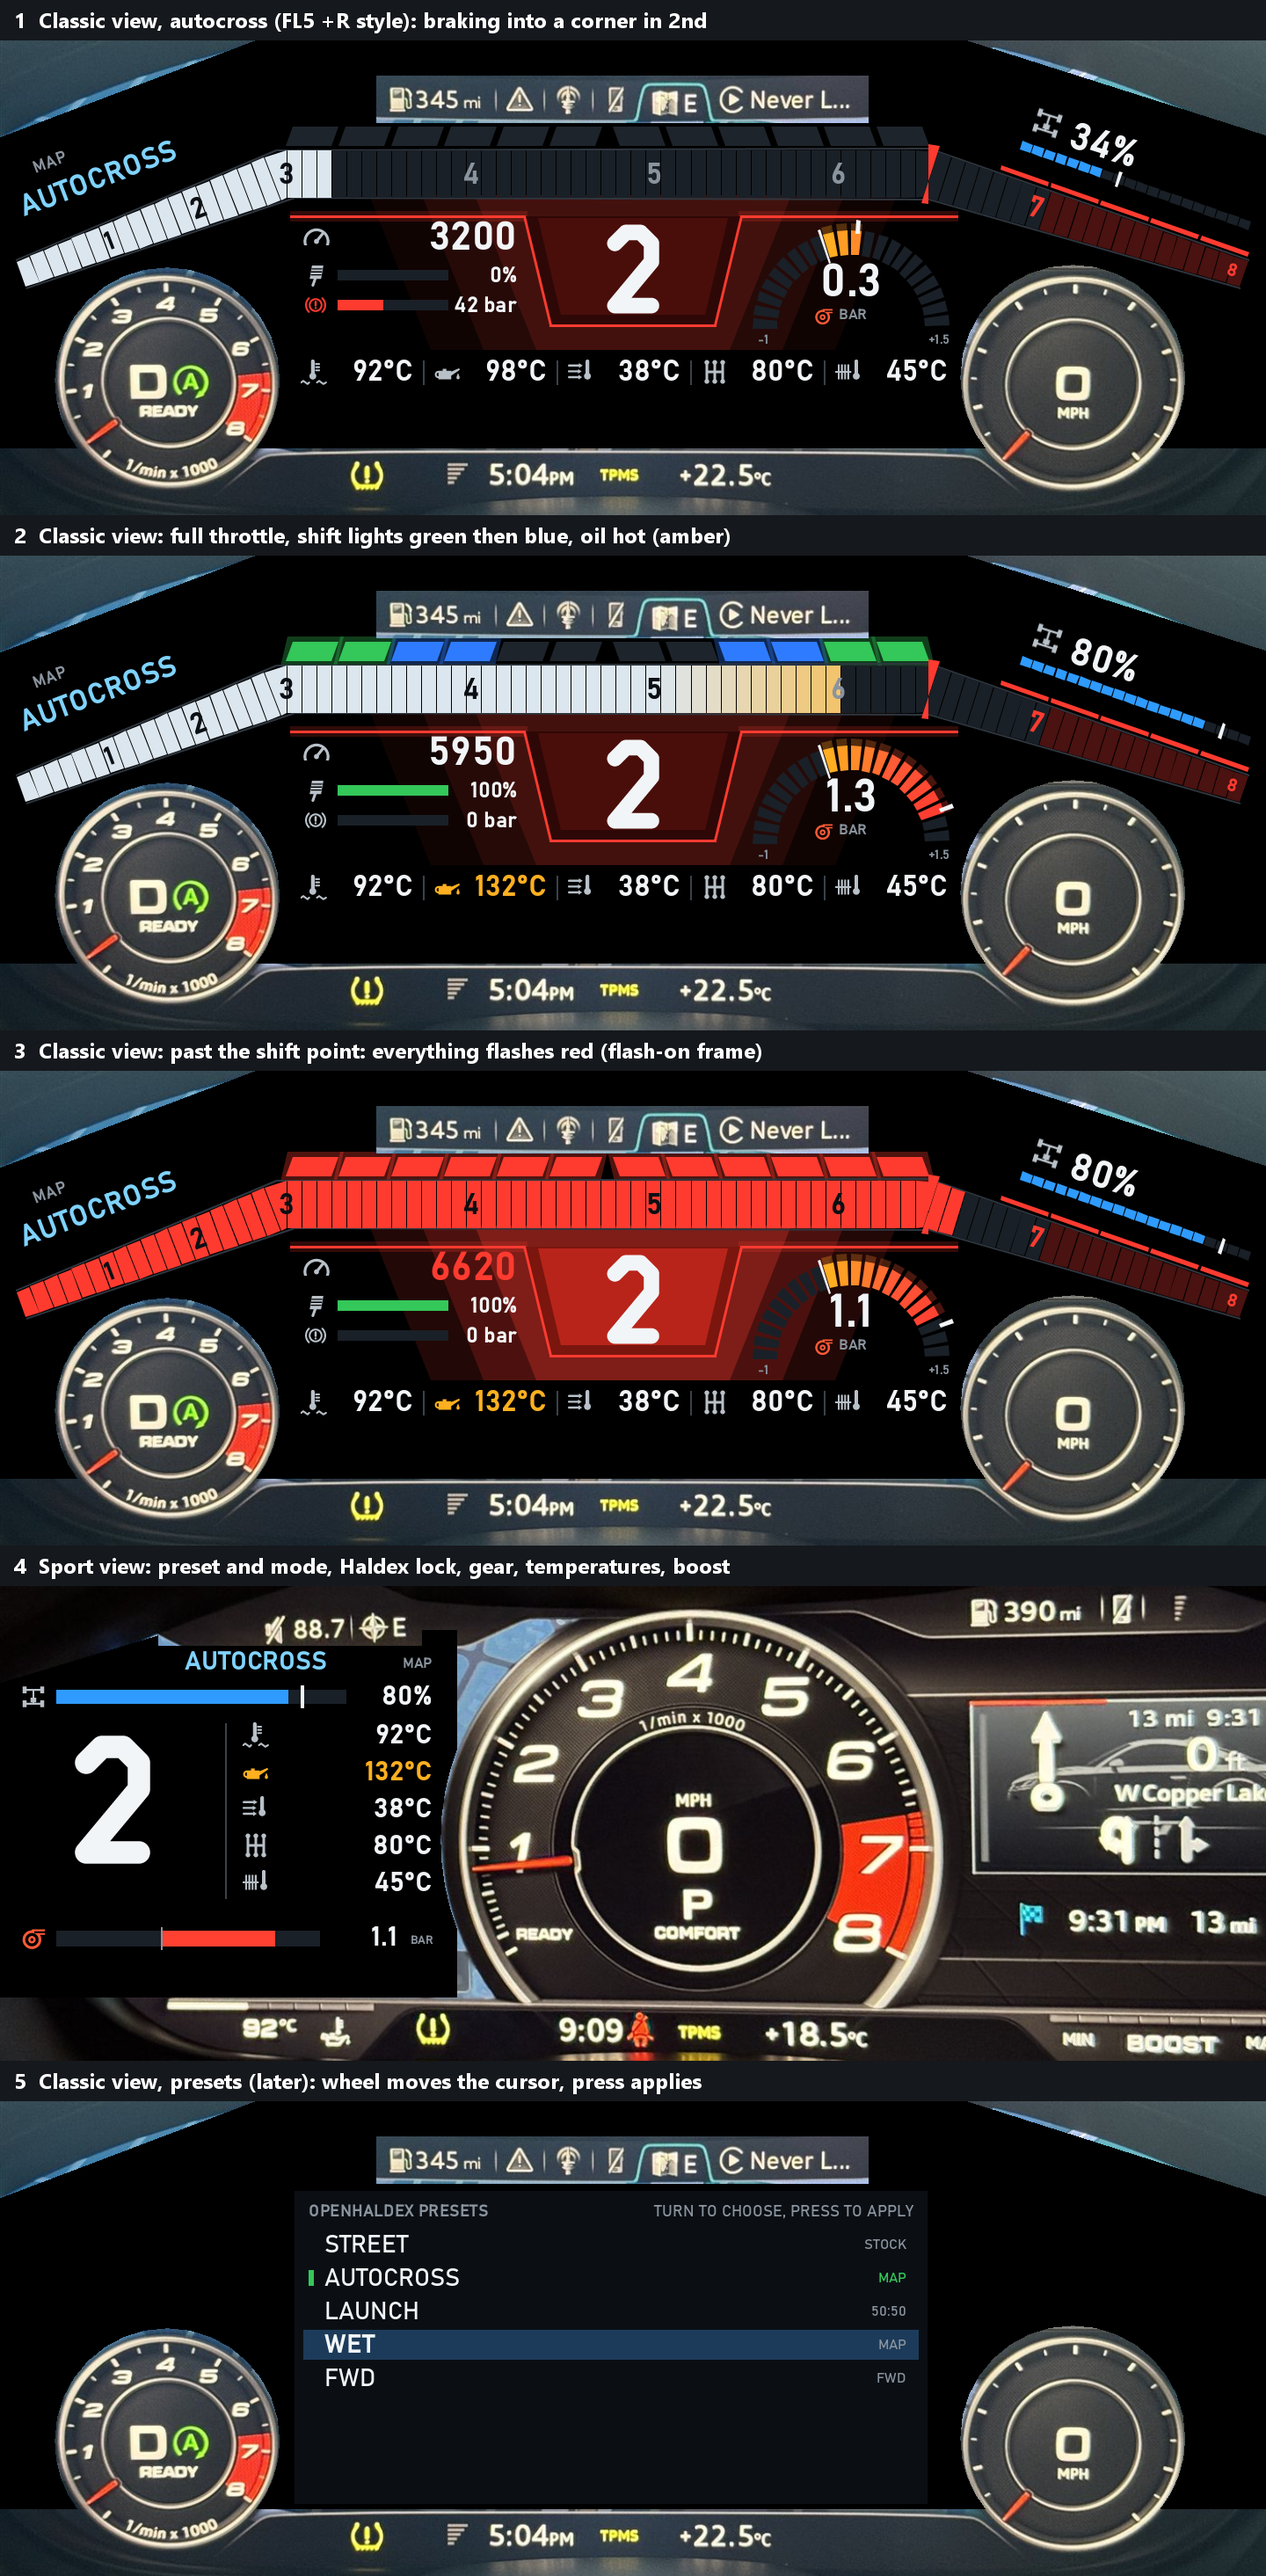
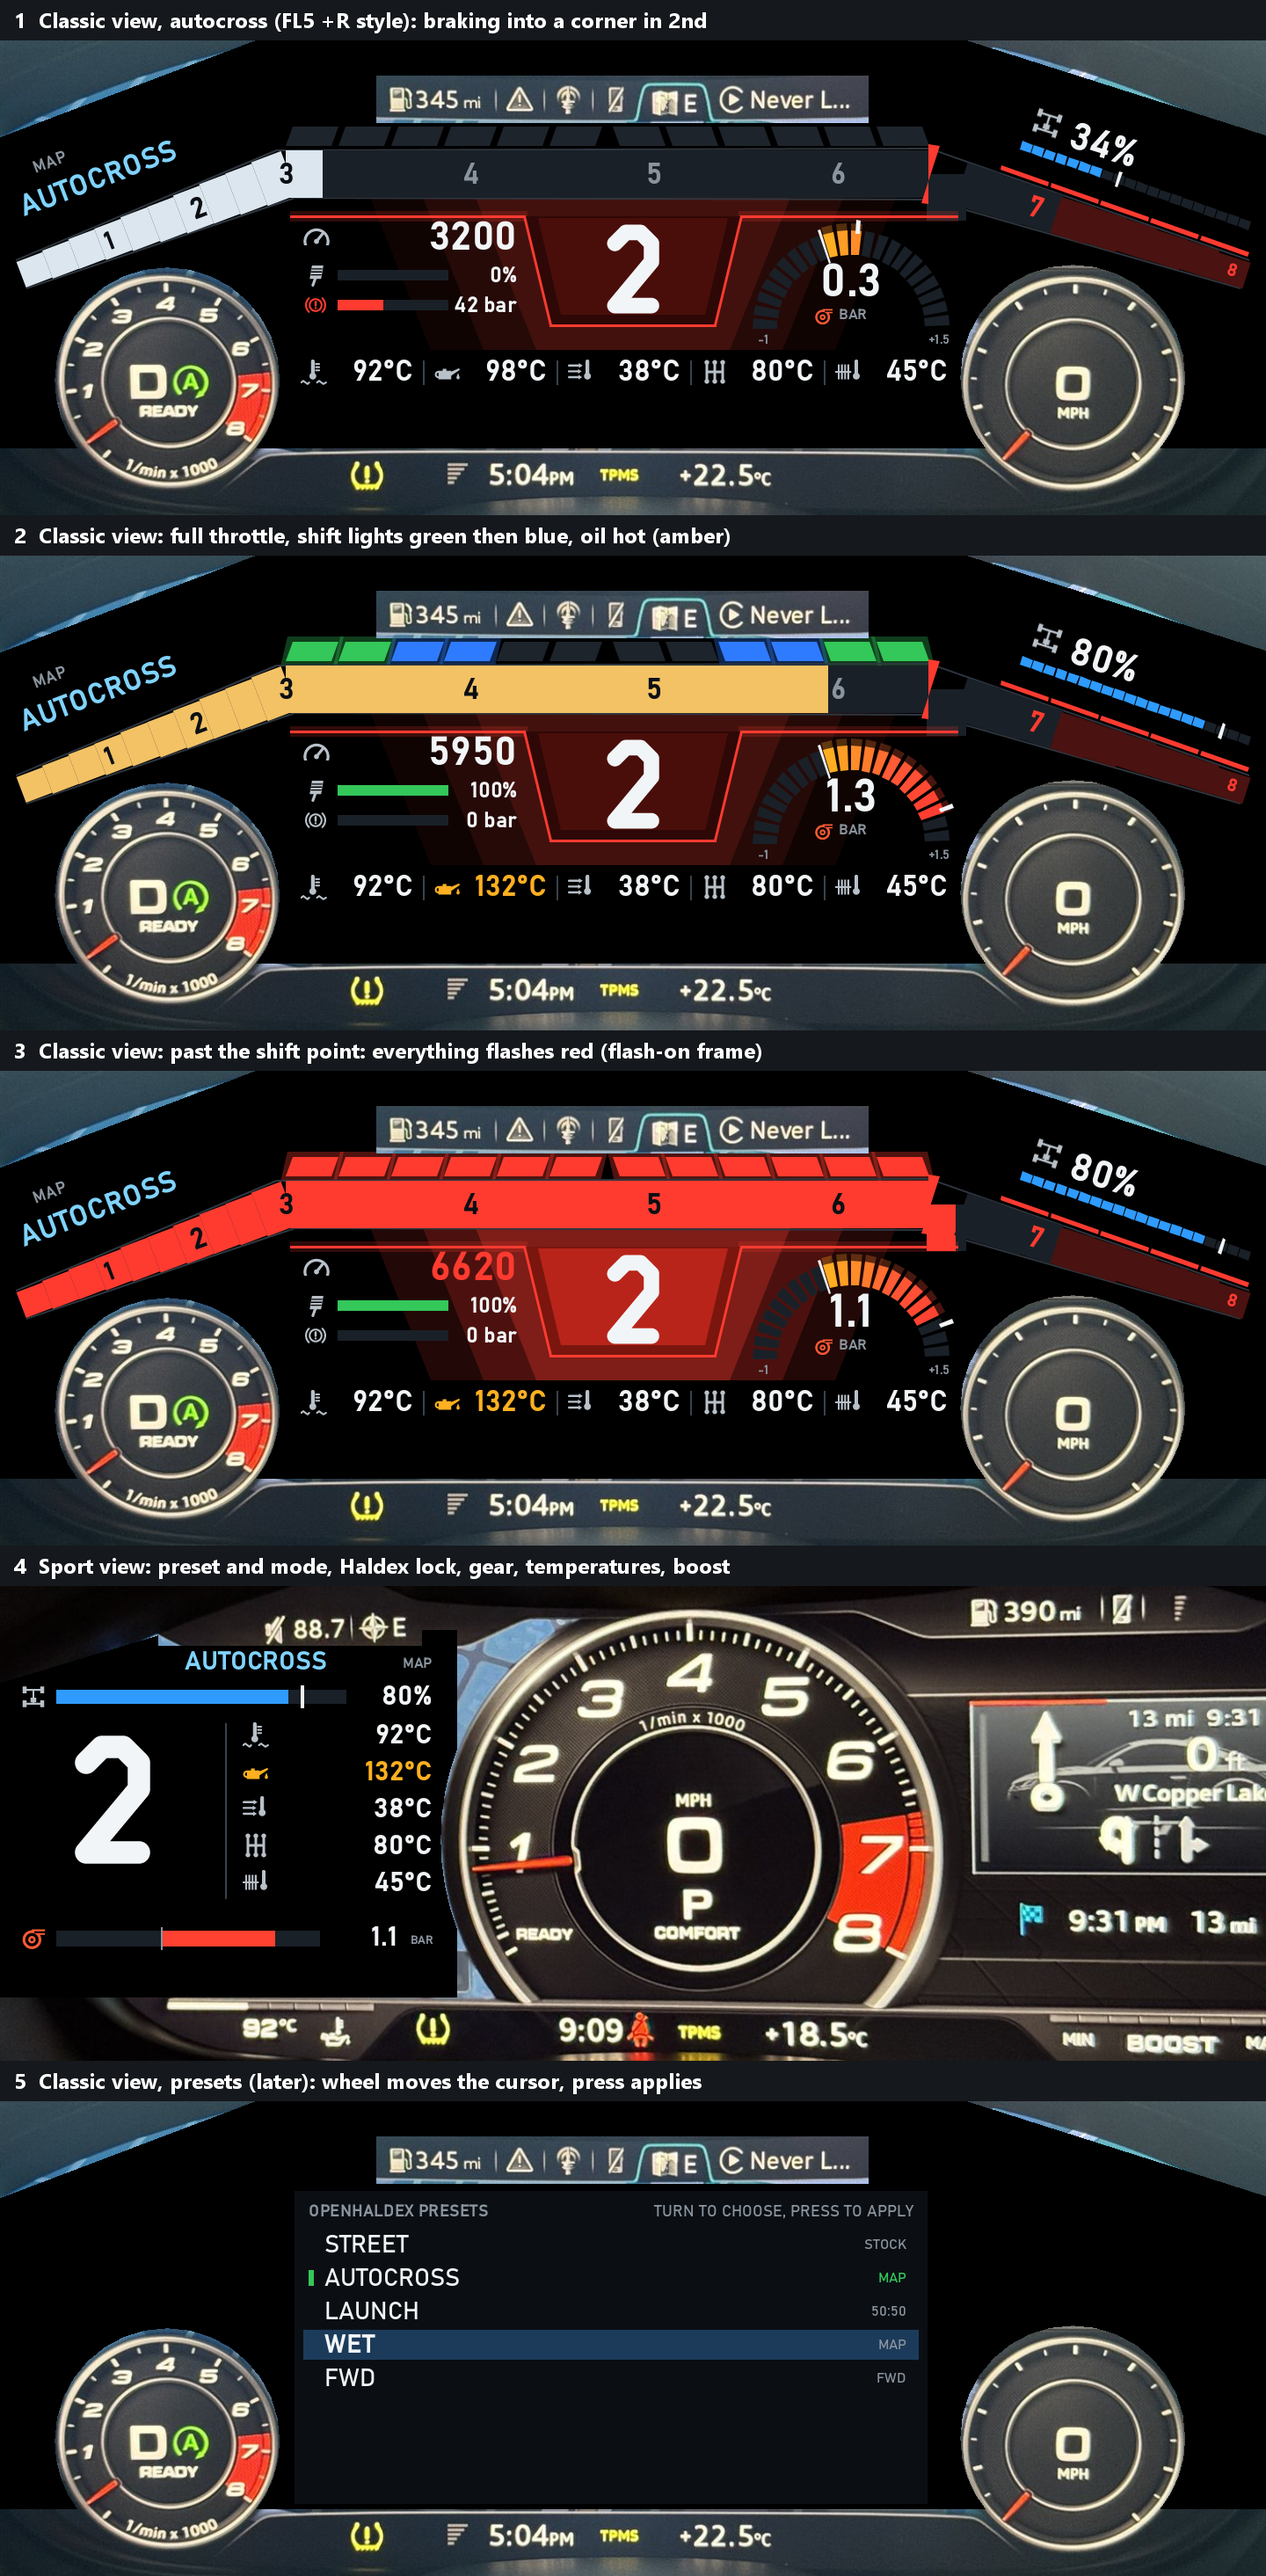
Telemetry tele6: smooth exact rev strip (scaled fill pieces), cheap limiter flash, brake smoothing

diff --git a/ports/tt-8s-mu1462/hmi/src/local/tt/TeleLayout.java b/ports/tt-8s-mu1462/hmi/src/local/tt/TeleLayout.java
@@ -27,7 +27,7 @@ package local.tt;
  * once, one picture per colour they can take. The PC preview (gauges/tools/TelePreview.java)
  * draws the same slots with AWT.
  *
- * Coordinates are cockpit screen pixels (1440x540). A text slot's y is the top of the text; the
+ * Coordinates are cockpit screen pixels (1440x540). A turned BOX turns about (x, y), the middle of its start edge. A text slot's y is the top of the text; the
  * car places text by baseline at y + 0.82 * size. Colours are 0xRRGGBBAA, like EAL text colours.
  *
  * Java 1.4 library only (HMI-patching.md): no string +, no generics, no autoboxing.
@@ -119,7 +119,7 @@ public final class TeleLayout {
     private static final int[] TP_Y = {266, 152, 152, 266};
     private static final int HALF_MIN = 15;
     private static final int HALF_MAX = 27;
-    private static final int TP_SEGS = 84;
+    private static final int SLOPE_PIECES = 10;
     private static final int MID_RPM = 3000;
     // Shift lights: LEDS_SIDE per side under the tab bar, lighting from both ends towards the
     // middle, LED_STEP rpm apart up to the shift point.
@@ -188,6 +188,7 @@ public final class TeleLayout {
     private static final int BOOST_MIN = -100;
     private static final int BOOST_MAX = 150;
     private int peakKpa = BOOST_MIN;
+    private double brakeSm;
     private long peakAt;
     private final double[] pb = new double[4];
 
@@ -257,20 +258,48 @@ public final class TeleLayout {
             bandOff(a, b, half(a) + 1, half(a) + 3, half(b) + 1, half(b) + 3, EDGE, true);
             bandOff(a, b, -half(a) - 3, -half(a) - 1, -half(b) - 3, -half(b) - 1, EDGE, true);
         }
-        for (int i = 0; i < TP_SEGS; i++) {
-            double s0 = len * i / TP_SEGS;
-            double s1 = len * (i + 1) / TP_SEGS - 1.0;
-            int from = sToRpm(s0);
-            int c;
-            if (limit)
-                c = blink ? RED : from >= redlineRpm ? REDZONE : TRACK;
-            else if (rpm <= from || !link)
-                c = from >= redlineRpm ? REDZONE : TRACK;
-            else if (over)
-                c = RED;
-            else
-                c = stripColour(from);
-            bandOff(s0, s1, -half(s0), half(s0), -half(s1), half(s1), c, true);
+        // Continuous fill (tele6; the 84 coloured pieces were not exact and froze the car at the
+        // limiter): the strip is a few straight pieces, each a dark track and a fill box that is
+        // only scaled to the exact rpm, rotated along the slopes. The whole lit part takes one
+        // colour by rpm (cool white, warming to amber over the last 1500 rpm, red past the shift
+        // point); at the limiter the fill only blinks. No new pictures per frame.
+        int fc = over ? RED : stripColourAt(rpm);
+        boolean fillOn = link && !(limit && !blink);
+        int pieces = 2 * SLOPE_PIECES + 1;
+        for (int k = 0; k < pieces; k++) {
+            double s0;
+            double s1;
+            if (k < SLOPE_PIECES) {
+                s0 = l0 * k / SLOPE_PIECES;
+                s1 = l0 * (k + 1) / SLOPE_PIECES;
+            } else if (k == SLOPE_PIECES) {
+                s0 = l0;
+                s1 = r0;
+            } else {
+                int j = k - SLOPE_PIECES - 1;
+                s0 = r0 + (len - r0) * j / SLOPE_PIECES;
+                s1 = r0 + (len - r0) * (j + 1) / SLOPE_PIECES;
+            }
+            int p0 = sToRpm(s0);
+            int p1 = sToRpm(s1);
+            int track = p0 >= redlineRpm ? REDZONE : TRACK;
+            double frac = rpm <= p0 ? 0 : rpm >= p1 ? 1 : (rpm - p0) / (double) (p1 - p0);
+            if (k == SLOPE_PIECES) {
+                int y0 = TP_Y[1] - HALF_MAX;
+                int w0 = TP_X[2] - TP_X[1];
+                box(TP_X[1], y0, w0, 2 * HALF_MAX, track, true);
+                box(TP_X[1], y0, (int) Math.round(w0 * frac), 2 * HALF_MAX, fc, fillOn && frac > 0);
+            } else {
+                double th = 2 * half((s0 + s1) / 2);
+                double ext = k == SLOPE_PIECES - 1 || k == SLOPE_PIECES + 1 ? 4 : 2.5; // close the joints
+                double from = k == SLOPE_PIECES + 1 ? s0 - 3 : s0;
+                tp(from + 0.5, pa);
+                double ang = Math.toDegrees(Math.atan2(pa[2], -pa[3]));
+                tp(from, pa);
+                double full = s1 - from + ext;
+                rbox(pa[0], pa[1], full, th, ang, track, true);
+                rbox(pa[0], pa[1], frac >= 1 ? full : (s1 - from) * frac, th, ang, fc, fillOn && frac > 0);
+            }
         }
         // Shift point: a red cut across the strip where the fat middle ends.
         bandOff(r0 - 1.5, r0 + 1.5, -HALF_MAX - 7, HALF_MAX + 7, -HALF_MAX - 7, HALF_MAX + 7, RED, true);
@@ -359,7 +388,11 @@ public final class TeleLayout {
         icon(GRID_X0 + 16, 254, 26, TeleIcons.PEDAL, ICONC, true);
         bar(GRID_X0 + 54, 261, 126, 12, ped, 0, link ? PEDAL_FILL : GREY, -1);
         text(NOTCH_X0 - 8, 255, 24, true, RIGHT, vc, ok(CH_PEDAL) ? percent(ped) : "-", true);
-        int brk = ok(CH_BRAKE) ? clamp(r(val[CH_BRAKE]), 0, 999) : 0;
+        // Brake pressure smoothed (EMA at the 30 Hz tick) with a 2 bar dead band: the sensor reads
+        // about 1 bar off the brakes (road test 2026-11-23).
+        double rawBrake = ok(CH_BRAKE) ? Math.max(0, val[CH_BRAKE] / 1000.0) : 0;
+        brakeSm += 0.3 * (rawBrake - brakeSm);
+        int brk = brakeSm < 2.0 ? 0 : clamp((int) Math.round(brakeSm), 0, 999);
         icon(GRID_X0 + 16, 288, 26, TeleIcons.BRAKE, brk > 0 && link ? BRAKE_FILL : ICONC, true);
         bar(GRID_X0 + 54, 295, 126, 12, Math.min(brk, 100), 0, link ? BRAKE_FILL : GREY, -1);
         text(NOTCH_X0 - 8, 289, 24, true, RIGHT, vc, ok(CH_BRAKE) ? withUnit(brk, " bar") : "-", true);
@@ -426,6 +459,15 @@ public final class TeleLayout {
         quad(cx + rd(Math.cos(r0) * rOut), cy - rd(Math.sin(r0) * rOut), cx + rd(Math.cos(r1) * rOut),
             cy - rd(Math.sin(r1) * rOut), cx + rd(Math.cos(r1) * rIn), cy - rd(Math.sin(r1) * rIn),
             cx + rd(Math.cos(r0) * rIn), cy - rd(Math.sin(r0) * rIn), c, v);
+    }
+
+    /** The lit strip's one colour at this rpm, in four steps (few node colours on the car). */
+    private int stripColourAt(int rpmNow) {
+        int from = shiftRpm - 1500;
+        if (rpmNow <= from)
+            return STRIP_LO;
+        int step = Math.min(3, (rpmNow - from) * 4 / 1500);
+        return mix(STRIP_LO, AMBER, step / 3f);
     }
 
     /** Lit strip colour at rpm: cool white, warming to amber over the last 1500 rpm before shift. */
@@ -777,6 +819,12 @@ public final class TeleLayout {
 
     private void box(int x0, int y0, int w0, int h0, int c, boolean v) {
         add(BOX, x0, y0, w0, h0, c, v);
+    }
+
+    /** A box turned by ang degrees about (x0, y0), the middle of its start edge; w along the turn. */
+    private void rbox(double x0, double y0, double w0, double h0, double ang, int c, boolean v) {
+        int i = add(BOX, rd(x0), rd(y0), (int) Math.round(w0), (int) Math.round(h0), c, v && w0 >= 0.5);
+        rot[i] = (float) ang;
     }
 
     /** The gear as one sharp glyph (TeleIcons), centred at cx, top at y0, gh high. */

diff --git a/ports/tt-8s-mu1462/hmi/src/local/tt/TeleView.java b/ports/tt-8s-mu1462/hmi/src/local/tt/TeleView.java
@@ -459,16 +459,19 @@ public final class TeleView implements Runnable {
         if (img == null) {
             return;
         }
-        float rot = f.kind[i] == TeleLayout.ICON && !rotOff ? f.rot[i] : 0f;
+        // Icons tilt only when rotation is on; turned boxes (rev strip pieces) always turn.
+        boolean box = f.kind[i] == TeleLayout.BOX;
+        float rot = box || (f.kind[i] == TeleLayout.ICON && !rotOff) ? f.rot[i] : 0f;
         if (f.x[i] != s.sx || f.y[i] != s.sy || f.w[i] != s.sw || f.h[i] != s.sh || rot != s.shownRot) {
             float uw = img.getUnscaledWidth();
             float uh = img.getUnscaledHeight();
             img.setScale(f.w[i] / (uw > 0 ? uw : 1f), f.h[i] / (uh > 0 ? uh : 1f), 1f);
             if (rot != 0f) {
-                // turn a group about the icon's top-left corner, whatever the node's own pivot is
+                // turn a group about the anchor (an icon's top-left corner, a box's start-edge
+                // middle), whatever the node's own pivot is
                 s.group.setPosition(f.x[i], f.y[i], 0f);
                 s.group.setRotationZ(rot * rotSign * rotScale);
-                img.setPosition(0f, 0f, 0f);
+                img.setPosition(0f, box ? -f.h[i] / 2f : 0f, 0f);
             } else {
                 img.setPosition(f.x[i], f.y[i], 0f);
             }

diff --git a/ports/tt-8s-mu1462/gauges/tools/TelePreview.java b/ports/tt-8s-mu1462/gauges/tools/TelePreview.java
@@ -155,7 +155,8 @@ public class TelePreview {
     }
 
     private static void draw(Graphics2D g, TeleLayout t, int view, int page) {
-        t.build(view, page);
+        for (int k = 0; k < 30; k++) // let the smoothing (brake) settle, as at 30 Hz in the car
+            t.build(view, page);
         for (int i = 0; i < t.count; i++) {
             if (!t.vis[i])
                 continue;
@@ -164,7 +165,9 @@ public class TelePreview {
             if (t.rot[i] != 0)
                 g.rotate(Math.toRadians(t.rot[i]), t.x[i], t.y[i]);
             g.setColor(new Color((c >>> 24) & 0xFF, (c >>> 16) & 0xFF, (c >>> 8) & 0xFF, c & 0xFF));
-            if (t.kind[i] == TeleLayout.BOX) {
+            if (t.kind[i] == TeleLayout.BOX && t.rot[i] != 0) {
+                g.fillRect(t.x[i], t.y[i] - t.h[i] / 2, t.w[i], t.h[i]); // already turned about (x, y)
+            } else if (t.kind[i] == TeleLayout.BOX) {
                 g.fillRect(t.x[i], t.y[i], t.w[i], t.h[i]);
             } else if (t.kind[i] == TeleLayout.QUAD) {
                 int[] xs = new int[4];

diff --git a/ports/tt-8s-mu1462/wiki/Telemetry.md b/ports/tt-8s-mu1462/wiki/Telemetry.md
@@ -164,7 +164,17 @@ Build `ttlink` (WSL, toolchain image from [Build and test](Build-and-test.md)):
 wsl -d Ubuntu-24.04 -u root -- sh -c 'cd /mnt/c/.../gauges/headunit && docker run --rm -v "$PWD:/w" -w /w mhi2-qnx65-armv7-public:4.9 arm-unknown-nto-qnx6.5.0eabi-gcc -O2 -std=gnu99 -mfloat-abi=softfp ttlink.c -lsocket -o out/ttlink'
 ```
 
-## Autocross view on the head unit (tt-zoom tele5)
+## Autocross view on the head unit (tt-zoom tele6)
+
+First road test (tele5 + OpenHaldex v1.1.19, 2026-11-23): mildly successful. Found: the screen froze
+on reaching the limiter (all 84 strip pieces changed colour on every flash, and the first time each
+needed new pictures); the brake read about 1 bar off the brakes; the stepped strip was not exact.
+tele6: the strip is 21 straight pieces (10 per slope, the flat middle one), each a dark track plus a
+fill box that is only scaled to the exact rpm (turned boxes on the slopes, `rot` on BOX slots); the lit
+part takes one colour by rpm (4 steps white to amber, red past the shift point); at the limiter only
+the fill blinks. Brake: EMA (0.3 per 30 Hz tick) with a 2 bar dead band.
+
+### Earlier: tele5
 
 The receiver's port. With wired CarPlay up, UDP 49160 was taken ("BindException ... 0.0.0.0:49160",
 `*.49160` in netstat, no ttlink running): CarPlay's AirPlay receiver binds ports in the same
